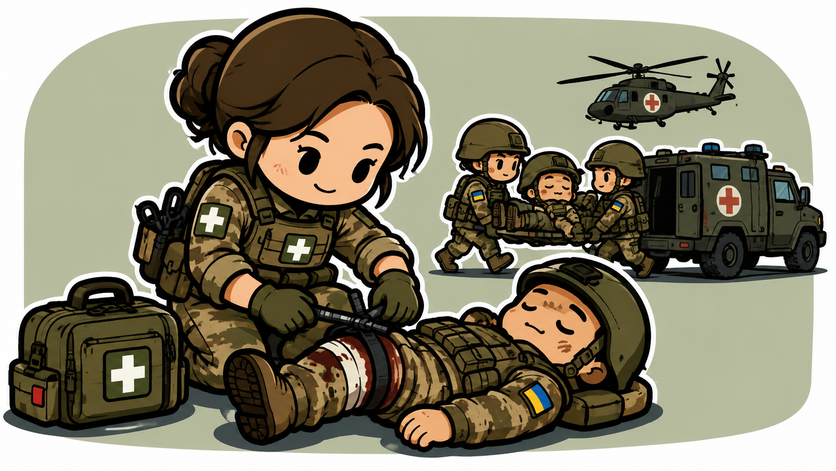
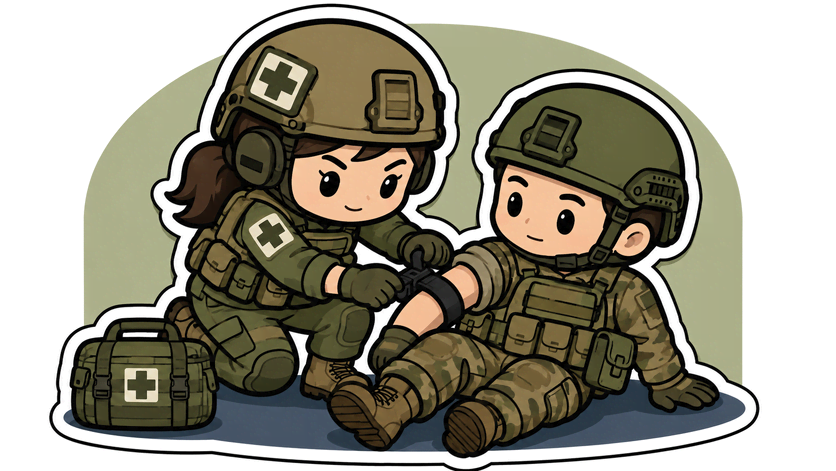
update styles, 2 buttons

diff --git a/style.css b/style.css
@@ -123,22 +123,6 @@ body {
   background: var(--bg-page);
 }
 
-.btn-back {
-  margin-top: 24px;
-  background: none;
-  border: none;
-  color: var(--text-muted);
-  font-size: 14px;
-  font-weight: 500;
-  cursor: pointer;
-  padding: 8px 0;
-}
-
-.btn-back:hover,
-.btn-back:focus-visible {
-  color: var(--accent-dark);
-}
-
 .result-card {
   margin-bottom: 8px;
 }
@@ -167,8 +151,37 @@ body {
   margin: 0;
 }
 
+.result-actions-row {
+  display: flex;
+  align-items: center;
+}
+
+.btn-back, 
 .btn-restart {
-  margin-top: 28px;
+  margin-top: 24px;
+  background: none;
+  border: none;
+  color: var(--text-muted);
+  font-size: 14px;
+  font-weight: 500;
+  cursor: pointer;
+  padding: 8px 0;
+}
+
+.result-actions-row .btn-restart {
+  margin-left: auto;
+}
+
+.btn-back:hover,
+.btn-back:focus-visible,
+.btn-restart:hover,
+.btn-restart:focus-visible  {
+  color: var(--accent-dark);
+  font-weight: 700;
+}
+
+.btn-start {
+  margin-top: 16px;
   width: 100%;
   background: var(--bg-card);
   border: 1px solid var(--accent);
@@ -179,13 +192,16 @@ body {
   border-radius: 10px;
   cursor: pointer;
   transition: background 0.2s ease;
+  position: relative;
+  overflow: hidden;
 }
 
-.btn-restart:hover,
-.btn-restart:focus-visible {
+.btn-start:hover,
+.btn-start:focus-visible {
   background: var(--accent);
-  color: var(--text-main);
+  color: #ffffff;
 }
+
 
 .btn-jobs {
   display: block;
@@ -290,7 +306,9 @@ Sparks
 .btn-jobs:hover .spark,
 .btn-jobs:focus-visible .spark,
 .btn-job:hover .spark,
-.btn-job:focus-visible .spark {
+.btn-job:focus-visible .spark,
+.btn-start:hover .spark,
+.btn-start:focus-visible .spark {
   animation: spark-fly 0.6s ease-out forwards;
 }
 
@@ -298,7 +316,9 @@ Sparks
   .btn-jobs:hover .spark,
   .btn-jobs:focus-visible .spark,
   .btn-job:hover .spark,
-  .btn-job:focus-visible .spark {
+  .btn-job:focus-visible .spark,
+  .btn-start:hover .spark,
+  .btn-start:focus-visible .spark {
     animation: none;
   }
 }
@@ -432,4 +452,8 @@ Sparks
 
 .footer-moresee {
   color: var(--text-main);
+}
+
+.result-text {
+  text-align: center;
 }

diff --git a/data.js b/data.js
@@ -2,9 +2,9 @@ const TOTAL_STEPS = 5;
 
 const startScreen = {
   image: "images/start.png",
-  title: "Який напрям у ВМС — твій?",
+  title: "Який напрям у ВМС – твій?",
   subtitle: "У ВМС безліч професій. Перевір, яка з них може стати твоєю.",
-  body: "ВМС ЗСУ — це більше, ніж море. Це дрони, кібербезпека, медицина, інженерія, штаб, комунікації. Багато хто навіть не здогадується, скільки насправді є напрямів і який із них може підійти саме йому.\n\nПройди короткий тест із кількох простих запитань і дізнайся, до якого профілю у ВМС ти більш схильний. Жодних складних анкет — лише вибір між двома варіантами на кожному кроці.",
+  body: "ВМС ЗСУ – це більше, ніж море. Це дрони, кібербезпека, медицина, інженерія, штаб, комунікації. Багато хто навіть не здогадується, скільки насправді є напрямів і який із них може підійти саме йому.\n\nПройди короткий тест із кількох простих запитань і дізнайся, до якого профілю у ВМС ти більш схильний. Жодних складних анкет – лише вибір між двома варіантами на кожному кроці.",
   cta: "Почати тест",
   ctaNote: "~2 хвилини, без реєстрації"
 };
@@ -93,7 +93,7 @@ const questions = {
   Q3: {
     depth: 2,
     image: "images/q3.png",
-    text: "Твоя зброя — це ноутбук чи Excel?",
+    text: "Твоя зброя – це ноутбук чи Excel?",
     options: [
       { label: "Цифра: код, дрони, радіоефір і кіберпанк.", next: "Q10" },
       { label: "Менеджмент: люди, склади, папери й щоб усе працювало як годинник.", next: "Q11" }
@@ -125,7 +125,7 @@ const questions = {
     image: "images/q13.png",
     text: "Ти клавіатурний ніндзя чи володар каніфолі?",
     options: [
-      { label: "Код, бази даних, алгоритми. Матриця — мій дім.", next: "Q14" },
+      { label: "Код, бази даних, алгоритми. Матриця – мій дім.", next: "Q14" },
       { label: "Паяльник, плати, мікросхеми. Зберу дрон із мікрохвильовки.", next: "uav_engineer" }
     ]
   },
@@ -174,11 +174,11 @@ const questions = {
 const results = {
   crew_ship: {
     jobUrl: "https://recrutvms.mil.gov.ua/qz/crew_ship?utm_source=quiz&utm_medium=referral&utm_campaign=quiz_vms",
-    jobUrlWork: "https://www.work.ua/employer/my/jobs/?region=all&type=1&userId=0&order=date&search=%D0%BF%D0%BB%D0%B0%D0%B2%D1%81%D0%BA%D0%BB%D0%B0%D0%B4",
+    jobUrlWork: "https://www.work.ua/jobs-%D0%BF%D0%BB%D0%B0%D0%B2%D1%81%D0%BA%D0%BB%D0%B0%D0%B4/?company=2592946",
     image: "images/crew_ship.png",
     title: "Екіпаж корабля / катера",
     category: "Бойові та операторські посади",
-    description: "Ти — морський вовк. Пірати Карибського моря відпочивають. Робота в команді, де кожен знає свою кнопку і свій штурвал. Романтика Чорного моря, бриз в обличчя і регулярна можливість передати «палке вітання» ворожому флоту. Якщо суходіл для тебе занадто нудний — ласкаво просимо на борт."
+    description: "Ти – морський вовк. Пірати Карибського моря відпочивають. Робота в команді, де кожен знає свою кнопку і свій штурвал. Романтика Чорного моря, бриз в обличчя і регулярна можливість передати «палке вітання» ворожому флоту. Якщо суходіл для тебе занадто нудний – ласкаво просимо на борт."
   },
 
   combat_swimmer: {
@@ -187,16 +187,16 @@ const results = {
     image: "images/combat_swimmer.png",
     title: "Бойовий плавець (Спецпризначенець)",
     category: "Бойові та операторські посади",
-    description: "Аквамен, але зі зброєю і нульовою толерантністю до русні. Найзакритіший клуб ВМС. Виринаєш там, де не чекають, робиш місії, про які потім зніматимуть кіно (але ти нікому не розкажеш, бо це таємниця). Відбір пекельний, та якщо ти амфібія зі сталевими нервами — тобі сюди."
+    description: "Аквамен, але зі зброєю і нульовою толерантністю до русні. Найзакритіший клуб ВМС. Виринаєш там, де не чекають, робиш місії, про які потім зніматимуть кіно (але ти нікому не розкажеш, бо це таємниця). Відбір пекельний, та якщо ти амфібія зі сталевими нервами – тобі сюди."
   },
 
   artillery_rocket: {
     jobUrl: "https://recrutvms.mil.gov.ua/qz/artillery_rocket?utm_source=quiz&utm_medium=referral&utm_campaign=quiz_vms",
-    jobUrlWork: "https://www.work.ua/employer/my/jobs/?region=all&type=1&userId=0&order=date&search=%D0%BD%D0%B0%D0%B2%D1%96%D0%B4%D0%BD%D0%B8%D0%BA",
+    jobUrlWork: "https://www.work.ua/jobs-%D0%BD%D0%B0%D0%B2%D1%96%D0%B4%D0%BD%D0%B8%D0%BA/?company=2592946",
     image: "images/artillery_rocket.png",
     title: "Артилерист / Ракетник",
     category: "Бойові та операторські посади",
-    description: "Кемпер рівня «бог». Твій девіз: \"Навіщо бігати, якщо можна дотягнутися ракетою?\". Високоточна робота з важкими аргументами. Математика, розрахунки, кнопка — і десь далеко епічно палає склад БК ворога. Ідеально для тих, хто любить масштабні феєрверки без прямого контакту."
+    description: "Кемпер рівня «бог». Твій девіз: \"Навіщо бігати, якщо можна дотягнутися ракетою?\". Високоточна робота з важкими аргументами. Математика, розрахунки, кнопка – і десь далеко епічно палає склад БК ворога. Ідеально для тих, хто любить масштабні феєрверки без прямого контакту."
   },
 
   marine: {
@@ -205,7 +205,7 @@ const results = {
     image: "images/marine.png",
     title: "Морський піхотинець",
     category: "Бойові та операторські посади",
-    description: "Машина для розвалу облич. Там, де страшно іншим, морпіх відкриває двері з ноги. Штурми, висадки, максимальний адреналін і братерство, міцніше за броню. Якщо ти хочеш бути на вістрі атаки та маєш фізуху, щоб це вивезти — «Вірні завжди» чекають."
+    description: "Машина для розвалу облич. Там, де страшно іншим, морпіх відкриває двері з ноги. Штурми, висадки, максимальний адреналін і братерство, міцніше за броню. Якщо ти хочеш бути на вістрі атаки та маєш фізуху, щоб це вивезти – «Вірні завжди» чекають."
   },
 
   medic: {
@@ -214,7 +214,7 @@ const results = {
     image: "images/medic.png",
     title: "Військовий медик",
     category: "Забезпечення, логістика та управління",
-    description: "Ангел-охоронець із турнікетом. Твоя робота — зробити так, щоб побратими могли й далі псувати демографію рф. Кров, бруд і екстремальний стрес, але врятоване життя того вартує. Ти той, на кого моляться всі в підрозділі, навіть найсуворіші штурмовики."
+    description: "Ангел-охоронець із турнікетом. Твоя робота – зробити так, щоб побратими могли й далі псувати демографію рф. Кров, бруд і екстремальний стрес, але врятоване життя того вартує. Ти той, на кого моляться всі в підрозділі, навіть найсуворіші штурмовики."
   },
 
   driver: {
@@ -223,7 +223,7 @@ const results = {
     image: "images/driver.png",
     title: "Водій",
     category: "Забезпечення, логістика та управління",
-    description: "Військовий Uber, тільки клієнти в броні, а замість заторів — кратери від мін. Крутиш кермо так, що Кен Блок нервово курить осторонь. Від тебе залежить, чи доїде БК і чи вибереться піхота. Вмієш витиснути максимум із будь-якого тарантаса? Заводь."
+    description: "Військовий Uber, тільки клієнти в броні, а замість заторів – кратери від мін. Крутиш кермо так, що Кен Блок нервово курить осторонь. Від тебе залежить, чи доїде БК і чи вибереться піхота. Вмієш витиснути максимум із будь-якого тарантаса? Заводь."
   },
 
   mechanic: {
@@ -232,7 +232,7 @@ const results = {
     image: "images/mechanic.png",
     title: "Механік / Ремонтник",
     category: "Технічні та ІТ-посади",
-    description: "Бог гайкового ключа. Здатен зібрати робочий двигун із двох неробочих, армованого скотча і такої-то матері. Поки ти не скажеш «поїхали», війна стоятиме на паузі. Якщо твої руки вічно в мастилі й ти любиш повертати залізо з того світу — армії потрібен твій талант."
+    description: "Бог гайкового ключа. Здатен зібрати робочий двигун із двох неробочих, армованого скотча і такої-то матері. Поки ти не скажеш «поїхали», війна стоятиме на паузі. Якщо твої руки вічно в мастилі й ти любиш повертати залізо з того світу – армії потрібен твій талант."
   },
 
   engineer_sapper: {
@@ -250,7 +250,7 @@ const results = {
     image: "images/drone_operator.png",
     title: "Оператор безпілотних і роботизованих систем",
     category: "Бойові та операторські посади",
-    description: "Геймер, який вийшов на новий рівень. У тебе в руках пульт, на екрані — ворог, а в небі (або на воді) — твій дрон із «подарунком». Бачиш усе, дістаєш боляче, сам сидиш у відносній безпеці. Награв тисячі годин у симуляторах? Час застосувати скіли на практиці."
+    description: "Геймер, який вийшов на новий рівень. У тебе в руках пульт, на екрані – ворог, а в небі (або на воді) – твій дрон із «подарунком». Бачиш усе, дістаєш боляче, сам сидиш у відносній безпеці. Награв тисячі годин у симуляторах? Час застосувати скіли на практиці."
   },
 
   signals_ew: {
@@ -259,7 +259,7 @@ const results = {
     image: "images/signals_ew.png",
     title: "Зв'язківець / Спеціаліст РЕБ та РЕР",
     category: "Технічні та ІТ-посади",
-    description: "Володар радіоефіру. Робиш так, щоб наші чули одне одного чітко, а ворог чув лише білий шум і власну паніку. Глушити чужі дрони, перехоплювати істеричні переговори в ефірі — це мистецтво. Без тебе армія — це натовп, з тобою — єдиний організм."
+    description: "Володар радіоефіру. Робиш так, щоб наші чули одне одного чітко, а ворог чув лише білий шум і власну паніку. Глушити чужі дрони, перехоплювати істеричні переговори в ефірі – це мистецтво. Без тебе армія – це натовп, з тобою – єдиний організм."
   },
 
   uav_engineer: {
@@ -268,7 +268,7 @@ const results = {
     image: "images/uav_engineer.png",
     title: "Інженер БПЛА та радіоелектроніки",
     category: "Технічні та ІТ-посади",
-    description: "Доктор Франкенштейн для дронів. Ти збираєш їх, паяєш, прошиваєш і чіпляєш на них те, що робитиме гучне «бум». Твій найкращий друг — паяльник, а замість музики ти слухаєш дзижчання моторів. Хобі з радіогуртка тепер рятує життя і нищить окупантів."
+    description: "Доктор Франкенштейн для дронів. Ти збираєш їх, паяєш, прошиваєш і чіпляєш на них те, що робитиме гучне «бум». Твій найкращий друг – паяльник, а замість музики ти слухаєш дзижчання моторів. Хобі з радіогуртка тепер рятує життя і нищить окупантів."
   },
 
   developer: {
@@ -277,16 +277,16 @@ const results = {
     image: "images/developer.png",
     title: "Програміст / ІТ-розробник",
     category: "Технічні та ІТ-посади",
-    description: "Айтівець у пікселі. Твій код тепер не для продажу реклами, а для систем наведення, управління військами та логістики. Жодних нудних дейліків із замовником — твій кастомер це ЗСУ, і фідбек тут вимірюється в знищеній техніці ворога."
+    description: "Айтівець у пікселі. Твій код тепер не для продажу реклами, а для систем наведення, управління військами та логістики. Жодних нудних дейліків із замовником – твій кастомер це ЗСУ, і фідбек тут вимірюється в знищеній техніці ворога."
   },
 
   cybersecurity: {
     jobUrl: "https://recrutvms.mil.gov.ua/qz/cybersecurity?utm_source=quiz&utm_medium=referral&utm_campaign=quiz_vms",
-    jobUrlWork: "https://www.work.ua/employer/my/jobs/?region=all&type=1&userId=0&order=date&search=%D0%BA%D1%96%D0%B1%D0%B5%D1%80%D0%B1%D0%B5%D0%B7%D0%BF%D0%B5%D0%BA%D0%B0",
+    jobUrlWork: "https://www.work.ua/jobs-%D0%BA%D1%96%D0%B1%D0%B5%D1%80%D0%B1%D0%B5%D0%B7%D0%BF%D0%B5%D0%BA%D0%B0/?company=2592946",
     image: "images/cybersecurity.png",
     title: "Фахівець з кібербезпеки",
     category: "Технічні та ІТ-посади",
-    description: "Цифрова спецура. Будуєш віртуальні стіни та відбиваєш атаки хакерів із-за порєбріка. Твоя лінія фронту — це сервери, мережі та бази даних. Якщо слова «пентест» і «DDoS» для тебе не просто терміни, йди захищати мозок нашої армії."
+    description: "Цифрова спецура. Будуєш віртуальні стіни та відбиваєш атаки хакерів із-за порєбріка. Твоя лінія фронту – це сервери, мережі та бази даних. Якщо слова «пентест» і «DDoS» для тебе не просто терміни, йди захищати мозок нашої армії."
   },
 
   press_officer: {
@@ -304,7 +304,7 @@ const results = {
     image: "images/psychologist_chaplain.png",
     title: "Військовий психолог / Капелан",
     category: "Комунікації та морально-психологічне забезпечення",
-    description: "Броня для психіки. Ти той, хто збирає докупи мізки й душі після пекла. Вмієш слухати, розуміти та знаходити слова, коли слів вже немає. Твоя зброя — емпатія і стабільність. Без тебе навіть найсильніші термінатори можуть перегоріти."
+    description: "Броня для психіки. Ти той, хто збирає докупи мізки й душі після пекла. Вмієш слухати, розуміти та знаходити слова, коли слів вже немає. Твоя зброя – емпатія і стабільність. Без тебе навіть найсильніші термінатори можуть перегоріти."
   },
 
   staff_clerk: {
@@ -318,7 +318,7 @@ const results = {
 
   logistics: {
     jobUrl: "https://recrutvms.mil.gov.ua/qz/logistics?utm_source=quiz&utm_medium=referral&utm_campaign=quiz_vms",
-    jobUrlWork: "https://www.work.ua/employer/my/jobs/?region=all&type=1&userId=0&order=date&search=%D0%B1%D0%B0%D1%82%D0%B0%D0%BB%D0%B5%D1%80",
+    jobUrlWork: "https://www.work.ua/jobs-%D0%B1%D0%B0%D1%82%D0%B0%D0%BB%D0%B5%D1%80/?company=2592946",
     image: "images/logistics.png",
     title: "Логіст / Постачальник",
     category: "Забезпечення, логістика та управління",

diff --git a/app.js b/app.js
@@ -12,9 +12,9 @@ function renderHeader() {
 function renderFooter() {
   return `
     <div class="footer-copyright">
-      © 3-ій Центр рекрутингу ВМС ЗСУ, 2026 рік <br/>
+      © Третій Центр рекрутингу ВМС ЗСУ, 2026 рік <br/>
       <a href="https://recrutvms.mil.gov.ua/?utm_source=quiz&utm_medium=referral&utm_campaign=quiz_vms " target="_blank" rel="noopener">recrutvms.mil.gov.ua</a> 
-      — море професій, <span class="footer-moresee">БІЛЬШЕ НІЖ МОРЕ</span>
+      — Більше, ніж море
     </div>
   `;
 }
@@ -27,7 +27,17 @@ function renderStart() {
       <h1 class="start-title">${startScreen.title}</h1>
       <p class="start-subtitle">${startScreen.subtitle}</p>
       <p class="start-body">${startScreen.body.split("\n\n").map(p => `<span>${p}</span>`).join("")}</p>
-      <button class="btn-restart" id="start-btn">${startScreen.cta}</button>
+      <button class="btn-start" id="start-btn">
+        <span class="btn-start-label">${startScreen.cta}</span>
+        <span class="spark" style="--angle:0deg"></span>
+        <span class="spark" style="--angle:45deg"></span>
+        <span class="spark" style="--angle:90deg"></span>
+        <span class="spark" style="--angle:135deg"></span>
+        <span class="spark" style="--angle:180deg"></span>
+        <span class="spark" style="--angle:225deg"></span>
+        <span class="spark" style="--angle:270deg"></span>
+        <span class="spark" style="--angle:315deg"></span>
+      </button>
       <div class="start-note">${startScreen.ctaNote}</div>
     </div>
     ${renderFooter()}
@@ -95,8 +105,9 @@ function renderResult(id) {
       <h2 class="result-title">${r.title}</h2>
       <p class="result-description">${r.description}</p>
     </div>
-    ${renderBackButton()}
-
+    <div class="result-text">
+      <p>Переглянути вакансії:</p>
+    </div>
     <div class="btn-job-group">
       <a class="btn-job btn-job-left" href="${r.jobUrl}" target="_blank" rel="noopener">
         <span class="btn-jobs-label">Центр рекрутингу ВМС</span>
@@ -121,8 +132,10 @@ function renderResult(id) {
         <span class="spark" style="--angle:315deg"></span>
       </a>
     </div>
-
+    <div class="result-actions-row">
+    ${renderBackButton()}
     <button class="btn-restart" id="restart-btn">Почати знову</button>
+    </div>
     ${renderFooter()}
   `;
 